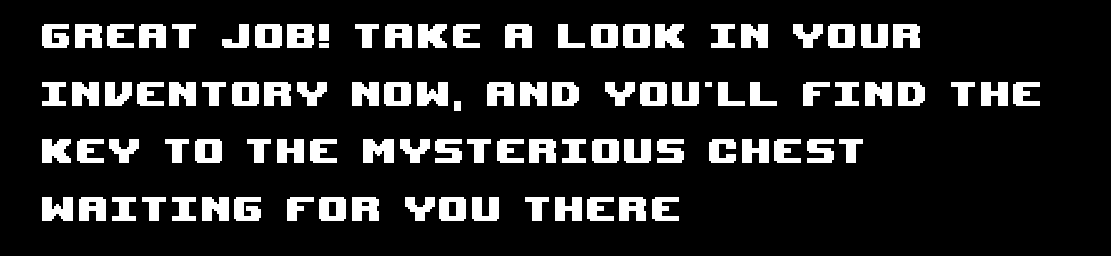
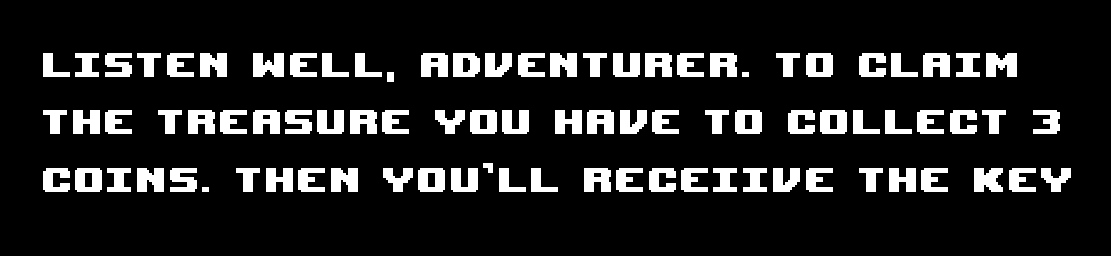
quest added

Changed region(s): [[0.0306, 0.0938, 0.9793, 0.875]]

diff --git a/src/main/java/Core/Model/NPC.java b/src/main/java/Core/Model/NPC.java
@@ -1,21 +1,21 @@
 package Core.Model;
+
+import Core.Model.GameObject;
+import Core.Model.GameObjectType;
+import Core.Model.Player;
+
 import java.awt.*;
-import java.io.File;
 import java.io.IOException;
 import javax.imageio.ImageIO;
 
 public class NPC extends GameObject {
     private Image npcImage;
     private boolean isTalking = false;
-    private Image task0_1;
-    private Image task0_2;
     private Image task1;
     private Image taskCompleted;
     private static final int NPC_WIDTH = 17;
     private static final int NPC_HEIGHT = 17;
-    protected boolean task1Complete = false;
-    protected boolean task0_2Complete = false;
-    protected boolean task0_1Complete = false;
+    private boolean task1Complete = false;
 
     public NPC(int x, int y) {
         super(x, y, GameObjectType.NPC);
@@ -25,43 +25,21 @@ public class NPC extends GameObject {
     private void loadImages() {
         try {
             npcImage = ImageIO.read(getClass().getResource("/npcStand.png"));
-            task0_1 = ImageIO.read(getClass().getResource("/Task_01.png"));
-            task0_2 = ImageIO.read(getClass().getResource("/Task_02.png"));
             task1 = ImageIO.read(getClass().getResource("/Task1.png"));
             taskCompleted = ImageIO.read(getClass().getResource("/TaskFinish.png"));
         } catch (IOException e) {
             e.printStackTrace();
         }
     }
-    @Override
-    public int getWidth() {
-        return NPC_WIDTH;
-    }
-
-    @Override
-    public int getHeight() {
-        return NPC_HEIGHT;
-    }
 
     @Override
     public void draw(Graphics g, int x, int y) {
         g.drawImage(npcImage, x, y, null);
-
     }
-
-
-
-    public void showFirstDialog(Graphics g) {
-        isTalking = true;
-        g.drawImage(task0_1, x, y  , null);
-    }
-
-
-
 
     @Override
     public boolean interact(Player player) {
-        if (!isTalking) {
+        if (!task1Complete && !isTalking) {
             isTalking = true;
             return true;
         }
@@ -72,36 +50,18 @@ public class NPC extends GameObject {
         return isTalking;
     }
 
-
-
-    public boolean isTask0_1Complete() {
-        return task0_1Complete;
+    public Image getTask1() {
+        return task1;
     }
 
+    public Image getTaskCompleted() {
+        return taskCompleted;
+    }
     public boolean isTask1Complete() {
         return task1Complete;
     }
 
-    public boolean isTask0_2Complete() {
-        return task0_2Complete;
-    }
-
-    public void setTask0_1Complete(boolean task0_1Complete) {
-        this.task0_1Complete = task0_1Complete;
-    }
-
-    public void setTask0_2Complete(boolean task0_2Complete) {
-        this.task0_2Complete = task0_2Complete;
-    }
-
-    public void setTask1Complete(boolean task1Complete) {
-        this.task1Complete = task1Complete;
-    }
-
-    public void hideDialog(Graphics graphics) {
-        isTalking = false;
-    }
-
-    public void setTalking(boolean b) {
+    public void setTask1Complete(boolean complete) {
+        this.task1Complete = complete;
     }
 }

diff --git a/src/main/java/Core/View/GamePanel.java b/src/main/java/Core/View/GamePanel.java
@@ -1,5 +1,6 @@
 package Core.View;
 
+import Core.Controller.Controller;
 import Core.Model.*;
 import com.google.gson.JsonArray;
 import com.google.gson.JsonElement;
@@ -7,6 +8,7 @@ import com.google.gson.JsonObject;
 
 import javax.imageio.ImageIO;
 import javax.swing.*;
+import javax.swing.Timer;
 import java.awt.*;
 import java.awt.image.BufferedImage;
 import java.io.IOException;
@@ -116,7 +118,6 @@ public class GamePanel extends JPanel {
                 case COIN -> new Coin(x, y);
                 case DOOR -> new Door(x, y);
                 case NPC -> new NPC(x, y);
-                // Добавьте другие типы объектов при необходимости
                 default -> null;
             };
             if (gameObject != null) {
@@ -246,11 +247,13 @@ public class GamePanel extends JPanel {
                 } else {
                     key.draw(g, objectX, objectY);
                 }
-             } else if (Objects.equals(GameObjectType, "COIN")) {
+            } else if (Objects.equals(GameObjectType, "COIN")) {
                 Coin coin = (Coin) object;
-                if (coin.isCollected())
-                {coin.drawCollected(g, objectX, objectY);}
-                else {coin.draw(g, objectX, objectY);}
+                if (coin.isCollected()) {
+                    coin.drawCollected(g, objectX, objectY);
+                } else {
+                    coin.draw(g, objectX, objectY);
+                }
             } else if (Objects.equals(GameObjectType, "DOOR")) {
                 Door door = (Door) object;
                 if (door.isOpened()) {
@@ -260,16 +263,16 @@ public class GamePanel extends JPanel {
 
                 }
 
-            } else if (Objects.equals(GameObjectType, "NPC")) {
+            }  else if (Objects.equals(GameObjectType, "NPC")) {
                 NPC npc = (NPC) object;
-                if (!npc.isTalking()) {
-                    npc.draw(g, objectX, objectY);
-                } else {
-                    npc.draw(g, objectX, objectY);
+                npc.draw(g, objectX, objectY);
+                if (npc.isTalking()) {
+                    g.drawImage(npc.getTask1(), objectX + 20, objectY - 30, npc.getTask1().getWidth(null) / 7, npc.getTask1().getHeight(null) / 7, null);
+                    if (npc.isTask1Complete()) {
+                        g.drawImage(npc.getTaskCompleted(), objectX + 20, objectY - 30, npc.getTaskCompleted().getWidth(null) / 7, npc.getTaskCompleted().getHeight(null) / 7, null);
+                    }
                 }
-
-
-            }
+        }
             else {
                 object.draw(g, objectX, objectY);
             }

diff --git a/src/main/java/Core/Controller/Controller.java b/src/main/java/Core/Controller/Controller.java
@@ -394,21 +394,11 @@ public class Controller {
                 }
                 if (object.getType().equals(GameObjectType.NPC)) {
                     NPC npc = (NPC) object;
-                    if (!npc.isTask0_1Complete()) {
-                        npc.showFirstDialog(gamePanel.getGraphics());
-                        npc.setTask0_1Complete(true);
+                    npc.interact(player);
+                    if (inventory.isQuestFinished()) {
+                        npc.setTask1Complete(true);
                     }
-//                    else if (!npc.isTask0_2Complete()) {
-//                        npc.showSecondDialog();
-//                        npc.setTask0_2Complete(true);
-//                    }
-//                    else if (!npc.isTask1Complete() && (player.getInventory().countKeys() >= 3 && player.getScore() >= 3)) {
-//                        npc.showThirdDialog();
-//                        npc.setTask1Complete(true);
-//                    }
-//                    else {
-//                        npc.showFourthDialog();
-//                    }
+                    gamePanel.repaint();
                 }
                 else {
                     player.setAnimationType(Player.AnimationType.INTERACT);

diff --git a/src/main/java/Core/Model/Inventory.java b/src/main/java/Core/Model/Inventory.java
@@ -93,4 +93,9 @@ public class Inventory {
         }
         return count;
     }
+
+    public boolean isQuestFinished() {
+        System.out.println("Checking if quest is finished");
+        return getCoinBalance() >= 3;
+    }
 }
